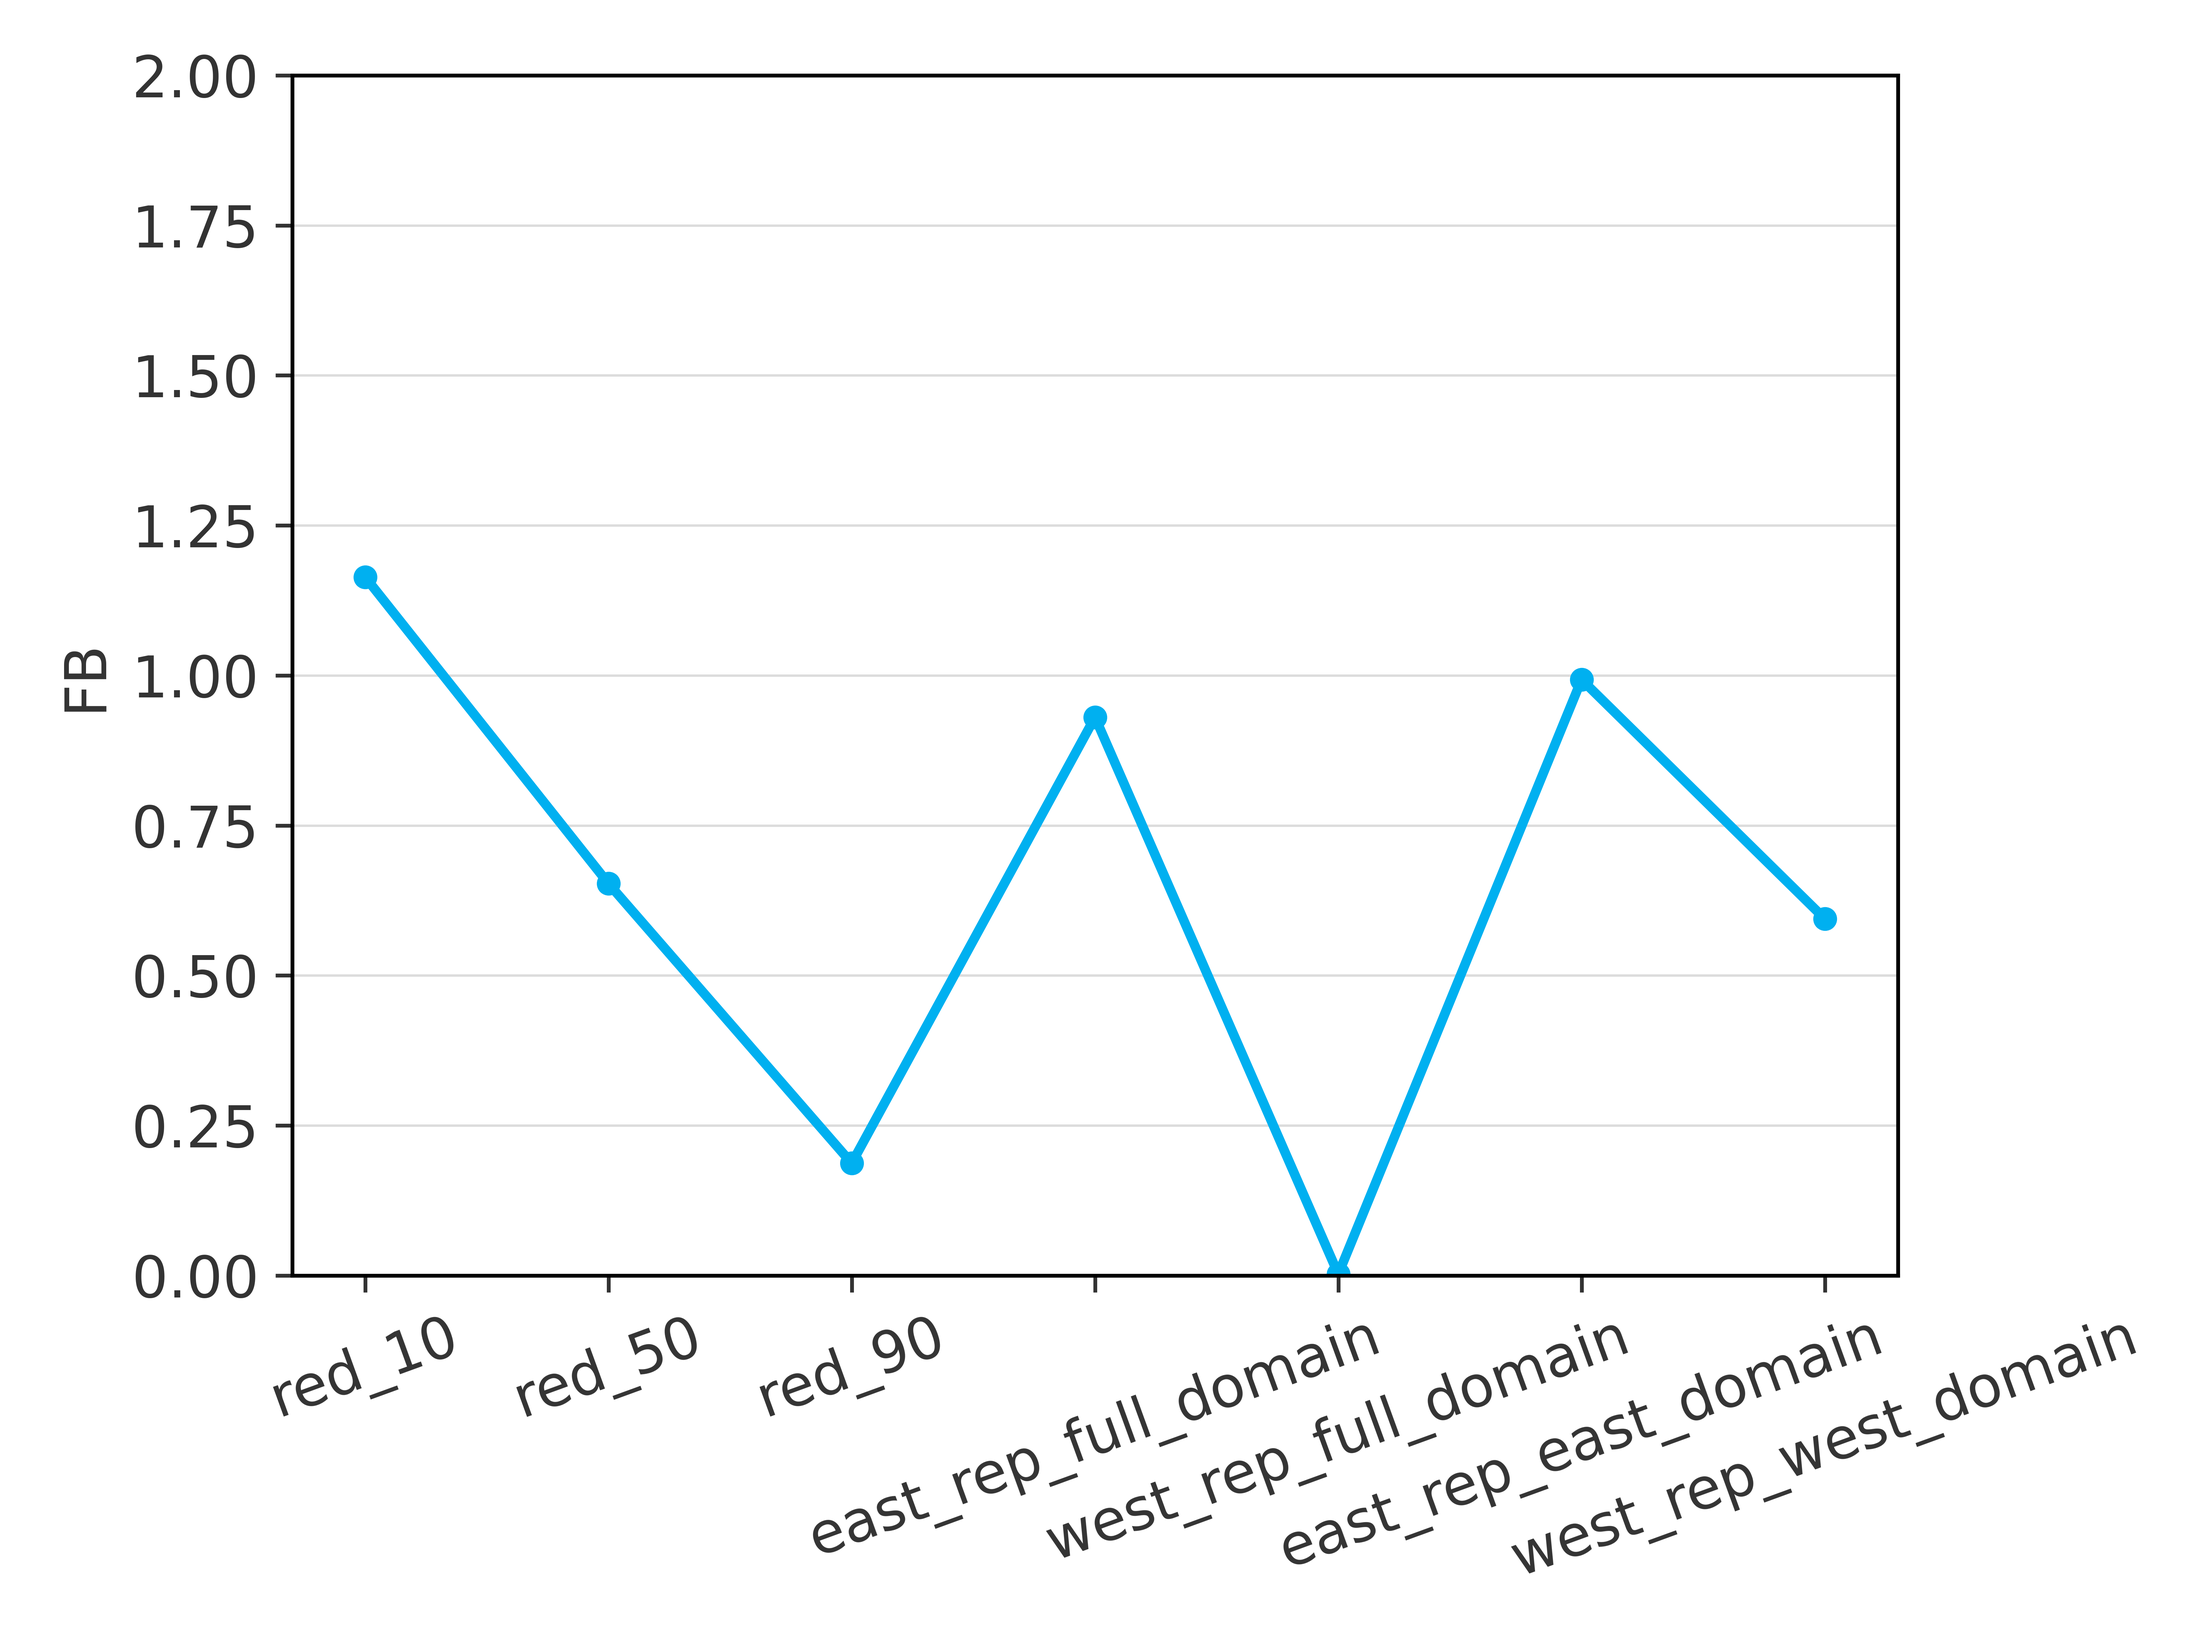
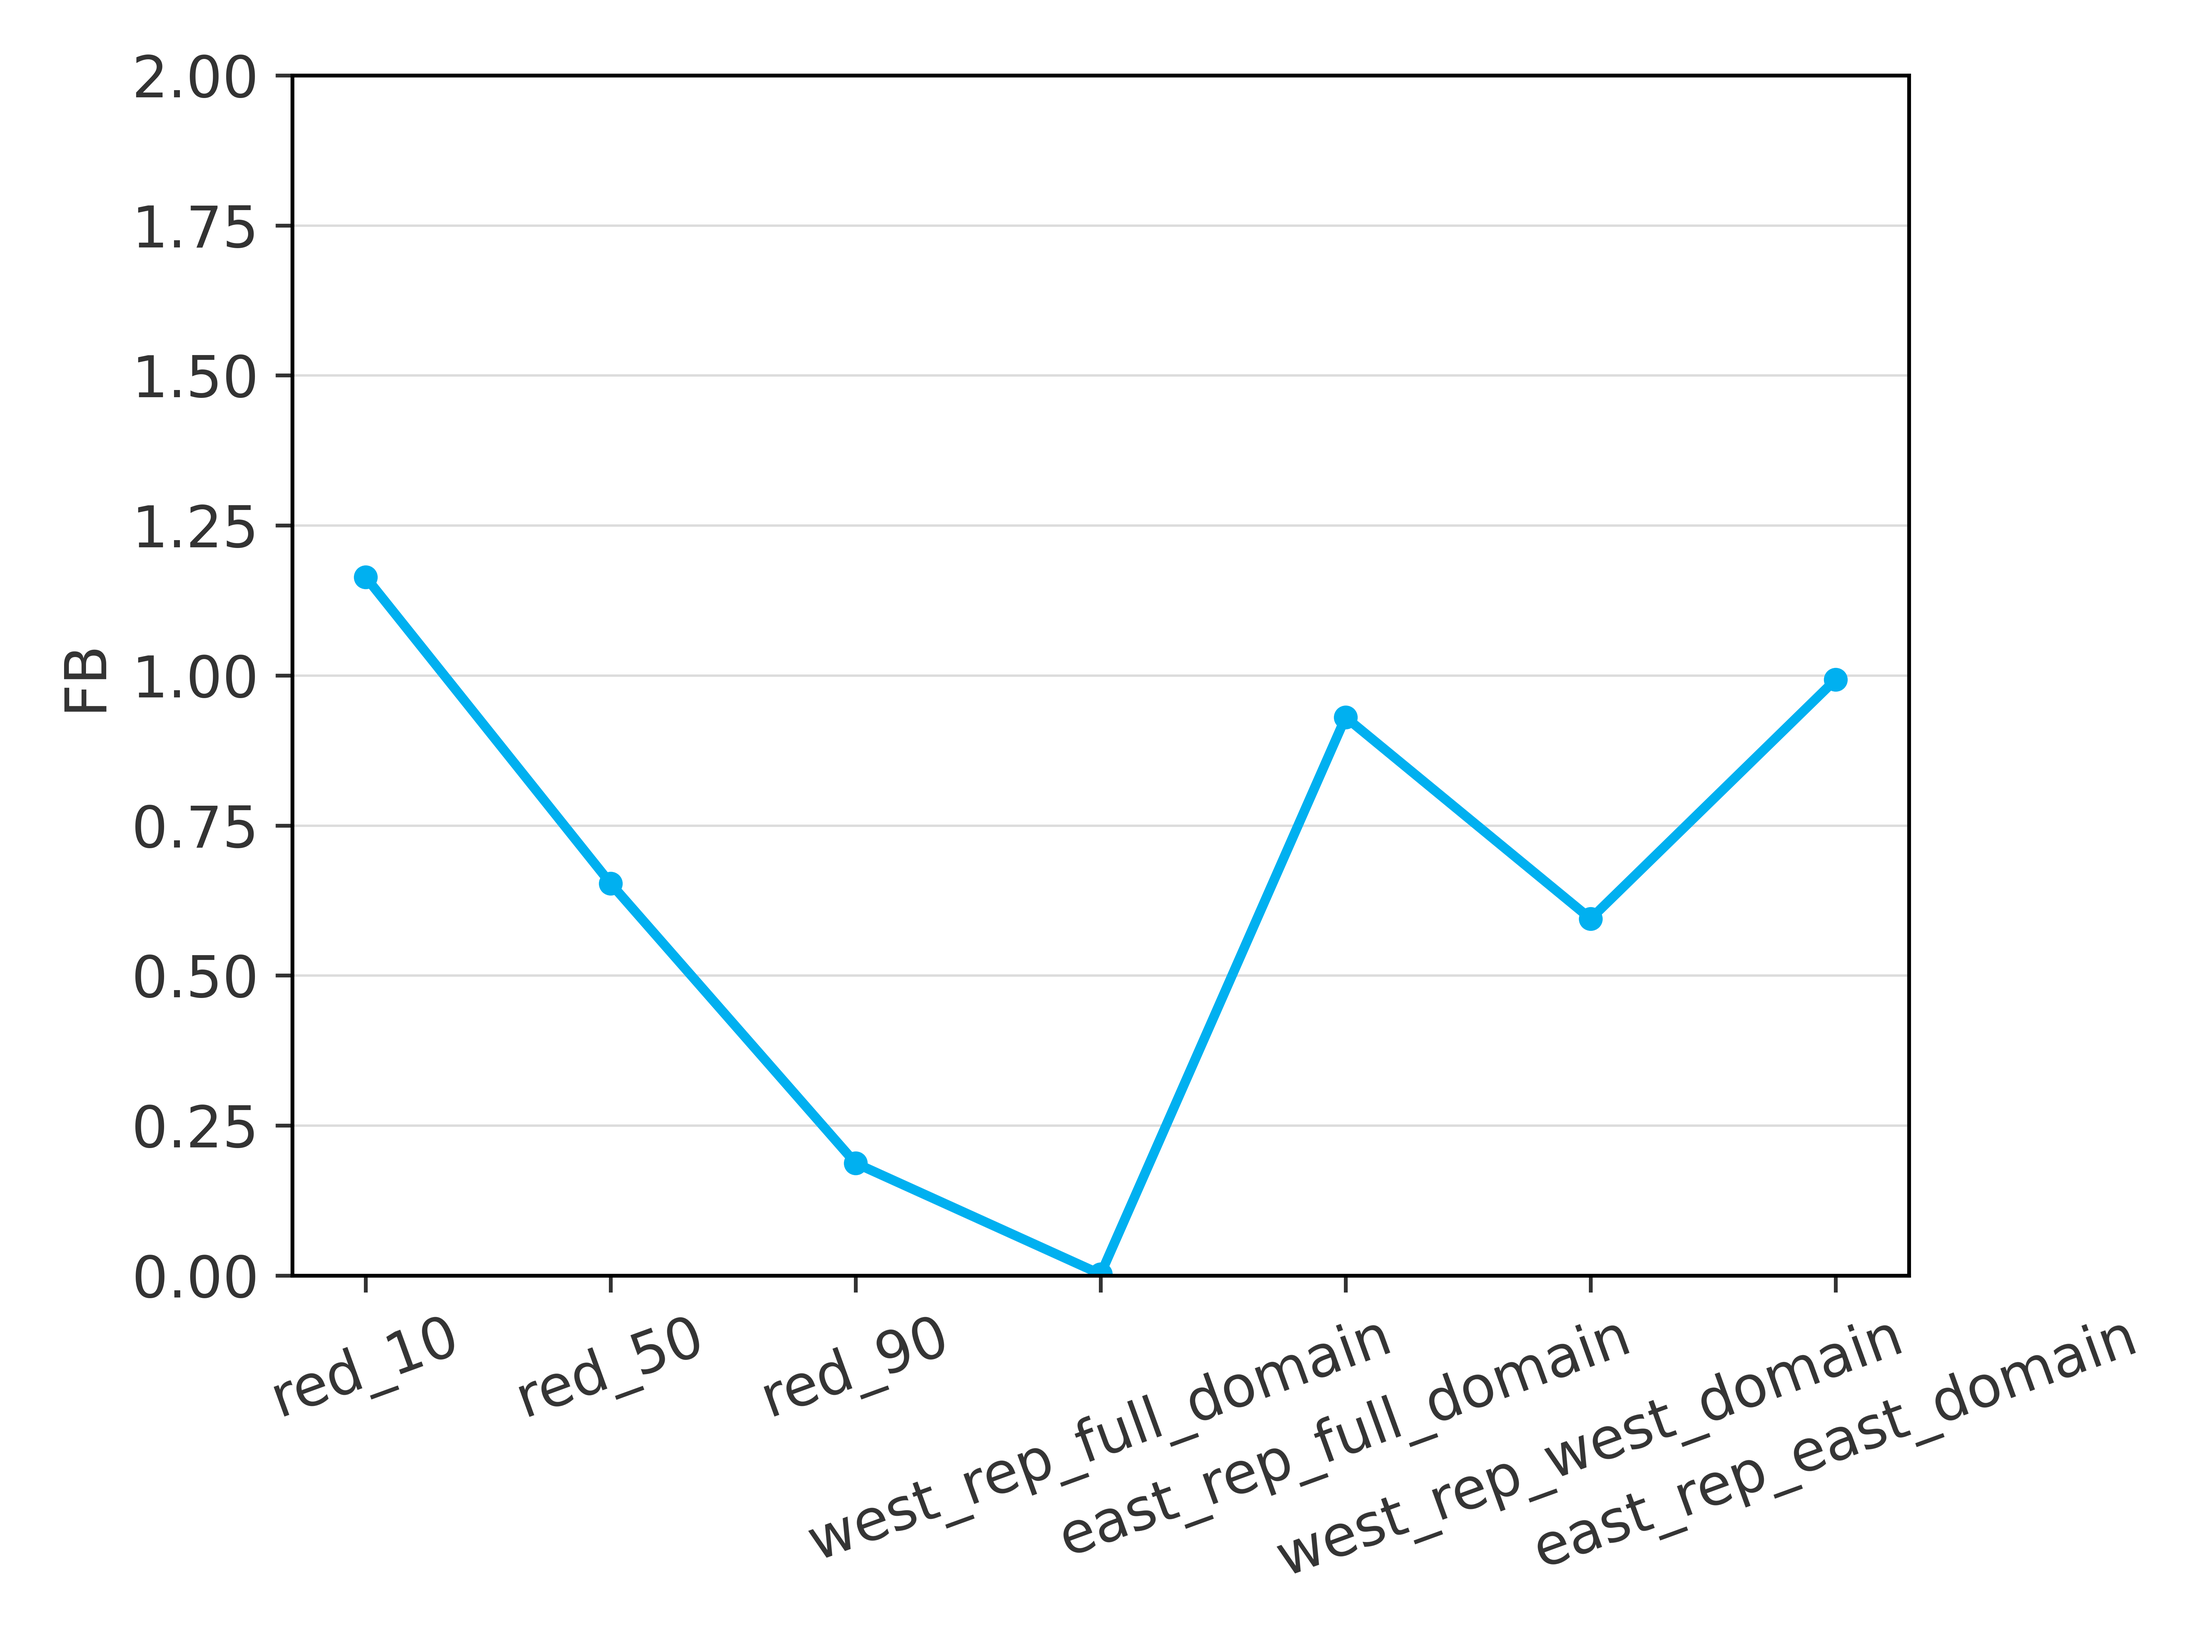
Change order analysis in the plots.

diff --git a/code/plot/27_prob_ff_hydro_sensitivity_verif.py b/code/plot/27_prob_ff_hydro_sensitivity_verif.py
@@ -45,7 +45,7 @@ from matplotlib.ticker import FuncFormatter
 
 ########################################################################################
 # INPUT PARAMETERS
-sensitivity_analysis_list = ["red_10", "red_50", "red_90", "east_rep_full_domain", "west_rep_full_domain", "east_rep_east_domain", "west_rep_west_domain"]
+sensitivity_analysis_list = ["red_10", "red_50", "red_90", "west_rep_full_domain", "east_rep_full_domain", "west_rep_west_domain", "east_rep_east_domain"]
 git_repo = "/ec/vol/ecpoint_dev/mofp/phd/probability_of_flash_flood"
 dir_in = "data/processed/19_prob_ff_hydro_short_fc_sensitivity_global"
 dir_out = "data/plot/27_prob_ff_hydro_sensitivity_verif"
